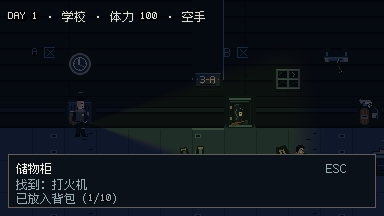
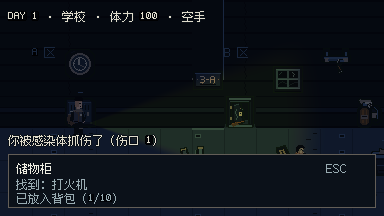
feat(search): 搜索条贴物件 + 按住才算数 + 搜索有噪声；手机「搜」改按住态
②-1 搜索条
- 条与文字锚在被搜物件正上方（canvas_transform 投到 HUD 视口坐标），不再固定钉在 (8,146)
- 时长读容器自己的 search_seconds（储物柜 1.6s），缺省落回 tiers 档位；R47 增校验
- 起手同一帧就出条（不再等下一帧 _process）

②-1 打断归零
- 想走（键盘/摇杆合成的 move_*）或松手立刻中断，进度归零、零产出
- 起手前就按着的方向键先忽略一次，避免「边走边按搜」自己取消

②-3 搜索的代价
- 搜索期间每 0.5s 记 1 点噪声（1.6s 柜子 ≈ 3 点），不每帧刷
- 被贴近仍是同一出口：取消 + 吃一抓

手机触控（真 bug）
- 「搜」从 tap 改 hold_key：按下发一次真按键事件（走廊起手）+ 一直按住 pickup（进度靠它推进）。
  以前 tap 在同一帧按下又松开，手机上的搜索进入下一帧就被判「松手」中断，永远走不完。

门禁
- corridor-loot 增 ⓪：时长来自数据 / 条贴在物件上方（±40px）/ 打断 10 次零产出 / 被贴近中断且掉体力
- touch-controls 增：按住「搜」跨帧保持 pickup、松手释放
- 41 条 Godot 门禁全绿；validate 47 条 ERROR 0；selftest 全通过

Changed region(s): [[0.0, 0.4722, 0.2812, 0.6944], [0.2812, 0.6111, 0.4062, 0.6944]]

diff --git a/tools/validate.py b/tools/validate.py
@@ -1626,6 +1626,15 @@ def r47(ctx: Ctx):
         if tier_id == "treasure":
             building = str(row.get("building", ""))
             treasure_per_building[building] = treasure_per_building.get(building, 0) + 1
+        # ②-1：容器可以覆盖自己的搜索时长（秒）。写坏了就是「按下去立刻搜完」或「永远搜不完」。
+        if "search_seconds" in row:
+            try:
+                own = float(row["search_seconds"])
+            except (TypeError, ValueError):
+                yield bad("R47", rel, f"容器 {cid} 的 search_seconds 不是数字")
+                own = -1.0
+            if own <= 0.0 or own > 10.0:
+                yield bad("R47", rel, f"容器 {cid} 的 search_seconds 必须在 (0, 10] 秒内")
     for building, count in treasure_per_building.items():
         if count != 1:
             yield bad("R47", rel, f"建筑 {building} 有 {count} 个高珍惜容器，必须恰好 1 个")
